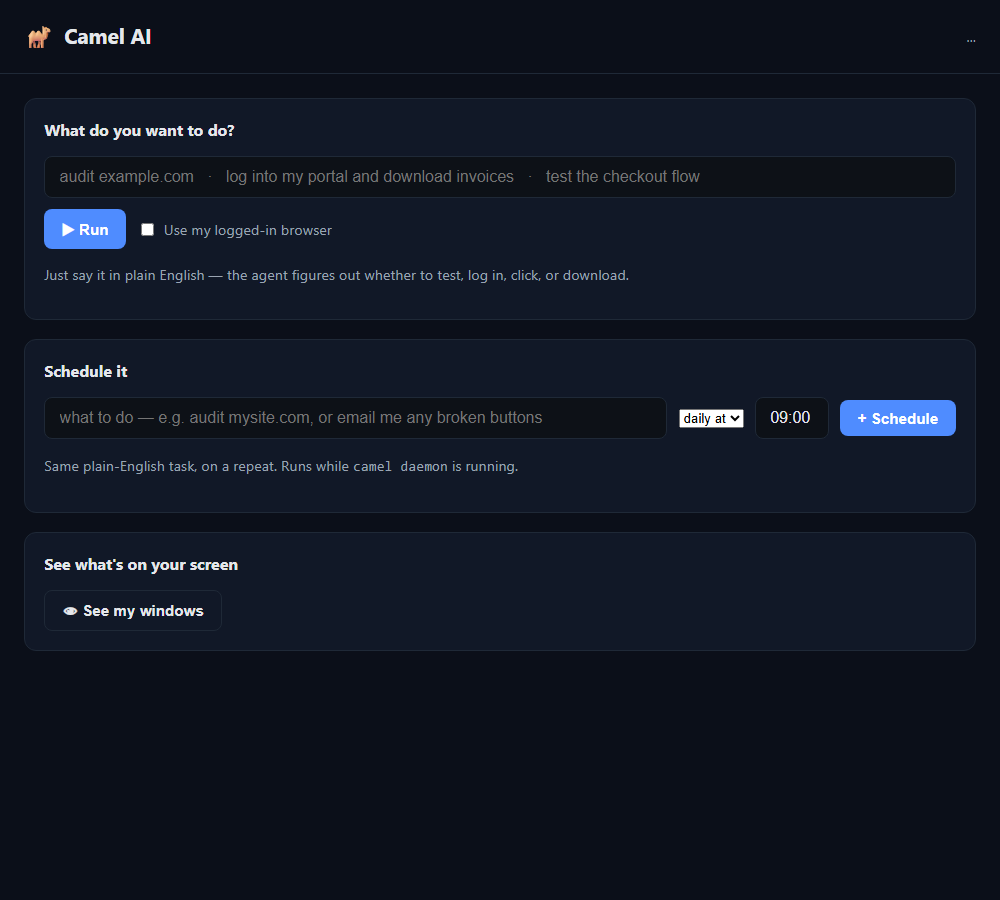
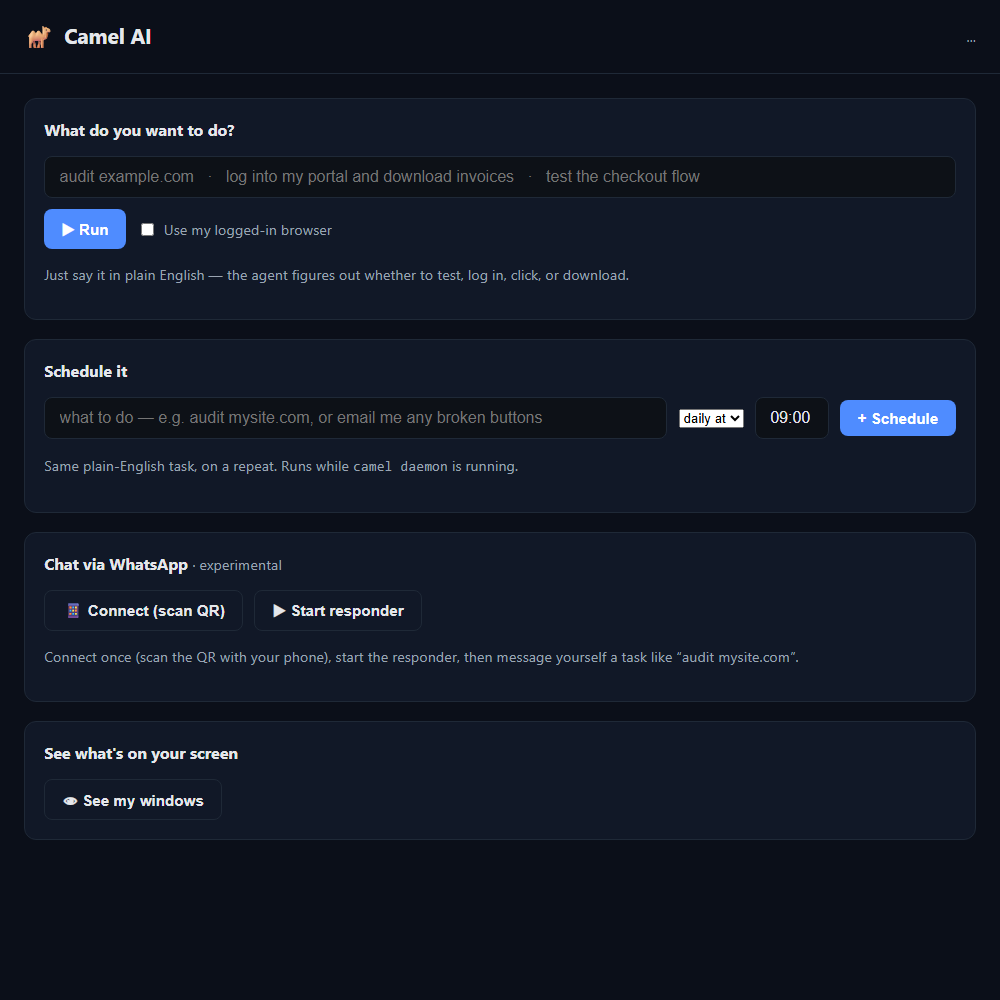
WhatsApp from the dashboard + confirm camel flip (0.0.8)
- Dashboard "Chat via WhatsApp" card: Connect (scan QR) and Start responder
  buttons -> /api/whatsapp launches `camel whatsapp connect|bot` in a new console.
- Camel header icon confirmed flipped (scaleX(-1)) — visible after upgrading.

22 tests green.

Claude-Session: https://claude.ai/code/session_01SRrF8evG9sqdZcEVRkf1QW

diff --git a/src/camel/dashboard.py b/src/camel/dashboard.py
@@ -87,6 +87,31 @@ async def _jobs(request):
     return JSONResponse({"jobs": scheduler.list_jobs()})
 
 
+async def _whatsapp(request):
+    body = await request.json()
+    action = body.get("action")
+    if action not in ("connect", "bot"):
+        return JSONResponse({"error": "unknown action"}, status_code=400)
+    import os
+    import shutil
+    import subprocess
+    import sys
+    exe = shutil.which("camel") or os.path.join(
+        os.path.expanduser("~"), ".local",
+        "bin", "camel.exe" if sys.platform == "win32" else "camel")
+    try:
+        kwargs = {}
+        if sys.platform == "win32":
+            kwargs["creationflags"] = 0x00000010  # CREATE_NEW_CONSOLE
+        subprocess.Popen([exe, "whatsapp", action], **kwargs)
+    except Exception as e:
+        return JSONResponse({"error": str(e)}, status_code=500)
+    msg = ("Opening WhatsApp Web — scan the QR with your phone "
+           "(WhatsApp ▸ Linked devices)." if action == "connect"
+           else "WhatsApp responder starting — message yourself a task.")
+    return JSONResponse({"status": msg})
+
+
 async def _see(request):
     out = {"windows": [], "screen": None}
     try:
@@ -110,6 +135,7 @@ app = Starlette(routes=[
     Route("/api/audit", _audit, methods=["POST"]),
     Route("/api/run", _run, methods=["POST"]),
     Route("/api/jobs", _jobs, methods=["GET", "POST"]),
+    Route("/api/whatsapp", _whatsapp, methods=["POST"]),
     Route("/api/see", _see),
 ])
 
@@ -177,6 +203,15 @@ _PAGE = r"""<!doctype html><html lang="en"><head><meta charset="utf-8">
   <div id="joblist" style="margin-top:.7rem"></div>
  </div>
  <div class="card">
+  <h2>Chat via WhatsApp <span class="meta" style="font-weight:400">· experimental</span></h2>
+  <div class="row">
+   <button class="ghost" id="waconnect">📱 Connect (scan QR)</button>
+   <button class="ghost" id="wabot">▶ Start responder</button>
+   <span id="wastatus" class="meta"></span>
+  </div>
+  <p class="meta">Connect once (scan the QR with your phone), start the responder, then message yourself a task like “audit mysite.com”.</p>
+ </div>
+ <div class="card">
   <h2>See what's on your screen</h2>
   <div class="row"><button class="ghost" id="seebtn">👁 See my windows</button><span id="screen" class="meta"></span></div>
   <div id="wins"></div>
@@ -208,6 +243,10 @@ document.getElementById('jadd').onclick=async()=>{const task=document.getElement
   body:JSON.stringify({action:'add',task,kind:'goal',every:jevery.value,at})});
  document.getElementById('jtask').value=''; loadJobs();};
 loadJobs();
+async function wa(action){const r=await fetch('/api/whatsapp',{method:'POST',headers:{'Content-Type':'application/json'},body:JSON.stringify({action})});
+ const d=await r.json();document.getElementById('wastatus').textContent=d.status||d.error||'';}
+document.getElementById('waconnect').onclick=()=>wa('connect');
+document.getElementById('wabot').onclick=()=>wa('bot');
 document.getElementById('seebtn').onclick=async()=>{
  const r=await fetch('/api/see');const d=await r.json();
  document.getElementById('screen').textContent=d.screen?('screen '+d.screen):'';

diff --git a/src/camel/__init__.py b/src/camel/__init__.py
@@ -1,3 +1,3 @@
 """camel - an MCP server for AI-driven browser UI/UX auditing."""
 
-__version__ = "0.0.7"
+__version__ = "0.0.8"